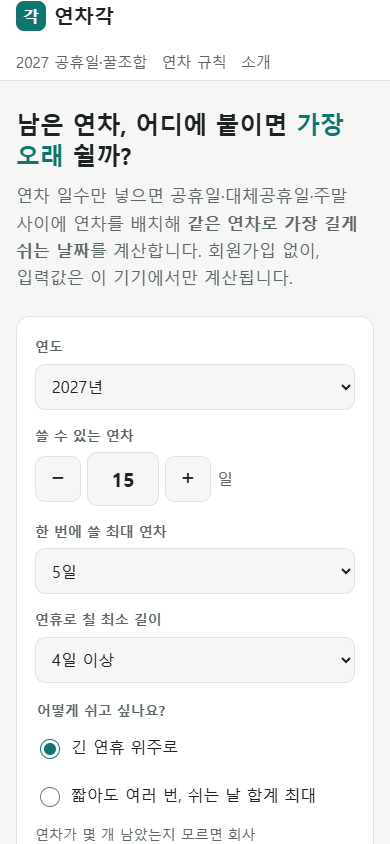
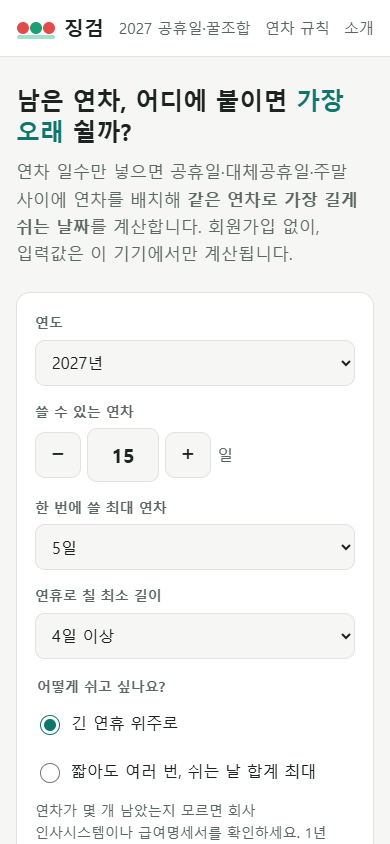
이름 변경: 연차각 → 징검, 징검다리 로고·아이콘·공유 이미지

diff --git a/guide/index.html b/guide/index.html
@@ -3,11 +3,11 @@
 <head>
 <meta charset="utf-8">
 <meta name="viewport" content="width=device-width, initial-scale=1">
-<title>연차·공휴일·대체공휴일 규칙 정리 (5인 미만, 노동절) | 연차각</title>
+<title>연차·공휴일·대체공휴일 규칙 정리 (5인 미만, 노동절) | 징검</title>
 <meta name="description" content="연차 15일 발생 기준, 5인 미만 사업장의 공휴일, 대체공휴일 기준, 노동절·제헌절 공휴일 지정까지 연차 계획 전에 알아둘 규칙을 법령 출처와 함께 정리했습니다.">
 <link rel="canonical" href="https://rolex0331-cloud.github.io/yeonchagak/guide/">
 <meta property="og:type" content="article">
-<meta property="og:title" content="연차·공휴일·대체공휴일 규칙 정리 (5인 미만, 노동절) | 연차각">
+<meta property="og:title" content="연차·공휴일·대체공휴일 규칙 정리 (5인 미만, 노동절) | 징검">
 <meta property="og:description" content="연차 15일 발생 기준, 5인 미만 사업장의 공휴일, 대체공휴일 기준, 노동절·제헌절 공휴일 지정까지 연차 계획 전에 알아둘 규칙을 법령 출처와 함께 정리했습니다.">
 <meta property="og:url" content="https://rolex0331-cloud.github.io/yeonchagak/guide/">
 <meta property="og:image" content="https://rolex0331-cloud.github.io/yeonchagak/assets/og.png">
@@ -17,13 +17,13 @@
 </head>
 <body>
 <header class="site-header"><div class="wrap header-in">
-  <a class="logo" href="../"><span class="logo-mark">각</span>연차각</a>
+  <a class="logo" href="../"><svg class="logo-mark" viewBox="0 0 40 30" aria-hidden="true"><rect x="1" y="22" width="38" height="4" rx="2" fill="#9FE1CB"/><circle cx="7" cy="15" r="6" fill="#E24B4A"/><circle cx="20" cy="15" r="6" fill="#1D9E75"/><circle cx="33" cy="15" r="6" fill="#E24B4A"/></svg>징검</a>
   <nav class="nav"><a href="../2027-holidays/">2027 공휴일·꿀조합</a><a href="../guide/">연차 규칙</a><a href="../about/">소개</a></nav>
 </div></header>
 <main class="wrap doc">
 
 <h1>연차·공휴일 규칙, 계산 전에 알아둘 것</h1>
-<p class="lead">연차각 계산 결과는 회사가 어떤 날을 쉬는지에 따라 달라집니다. 계산기의 체크 항목이 무엇을 뜻하는지 정리했습니다. 법률 상담이 아니며, 최종 기준은 회사 취업규칙과 법령 원문입니다.</p>
+<p class="lead">징검 계산 결과는 회사가 어떤 날을 쉬는지에 따라 달라집니다. 계산기의 체크 항목이 무엇을 뜻하는지 정리했습니다. 법률 상담이 아니며, 최종 기준은 회사 취업규칙과 법령 원문입니다.</p>
 
 <h2>연차는 몇 일인가요?</h2>
 <ul>
@@ -43,7 +43,7 @@
 <p>2026년 4월 국무회의에서 노동절과 제헌절을 관공서 공휴일로 정하는 규정 개정안이 의결됐다고 보도됐습니다. 노동절의 사업장 규모별 적용, 휴일 대체 가능 여부는 자료마다 설명이 다르므로 회사 기준이나 고용노동부 상담(국번 없이 1350)으로 확인하세요. 회사가 노동절에 쉬지 않는다면 계산기의 '노동절에 쉰다'를 끄면 됩니다.</p>
 
 <h2>임시공휴일</h2>
-<p>정부가 임시공휴일을 새로 지정하면 연차각은 공휴일 데이터 확인 후 반영합니다. 반영 전까지는 결과에 포함되지 않으니, 뉴스에서 임시공휴일 소식을 들었다면 계산기 고급 설정의 <b>회사 휴무일</b>에 직접 추가해 계산할 수 있습니다.</p>
+<p>정부가 임시공휴일을 새로 지정하면 징검은 공휴일 데이터 확인 후 반영합니다. 반영 전까지는 결과에 포함되지 않으니, 뉴스에서 임시공휴일 소식을 들었다면 계산기 고급 설정의 <b>회사 휴무일</b>에 직접 추가해 계산할 수 있습니다.</p>
 
 <h2>법령 원문</h2>
 <ul>

diff --git a/2027-holidays/index.html b/2027-holidays/index.html
@@ -3,11 +3,11 @@
 <head>
 <meta charset="utf-8">
 <meta name="viewport" content="width=device-width, initial-scale=1">
-<title>2027년 공휴일·대체공휴일 총정리와 연차 꿀조합 | 연차각</title>
+<title>2027년 공휴일·대체공휴일 총정리와 연차 꿀조합 | 징검</title>
 <meta name="description" content="2027년 공휴일 24일과 대체공휴일 7일 전체 목록, 연차 1일로 6일 쉬는 9/11(토) ~ 9/16(목) 등 연차 효율 순위. 내 연차 일수로 바로 다시 계산할 수 있습니다.">
 <link rel="canonical" href="https://rolex0331-cloud.github.io/yeonchagak/2027-holidays/">
 <meta property="og:type" content="article">
-<meta property="og:title" content="2027년 공휴일·대체공휴일 총정리와 연차 꿀조합 | 연차각">
+<meta property="og:title" content="2027년 공휴일·대체공휴일 총정리와 연차 꿀조합 | 징검">
 <meta property="og:description" content="2027년 공휴일 24일과 대체공휴일 7일 전체 목록, 연차 1일로 6일 쉬는 9/11(토) ~ 9/16(목) 등 연차 효율 순위. 내 연차 일수로 바로 다시 계산할 수 있습니다.">
 <meta property="og:url" content="https://rolex0331-cloud.github.io/yeonchagak/2027-holidays/">
 <meta property="og:image" content="https://rolex0331-cloud.github.io/yeonchagak/assets/og.png">
@@ -17,13 +17,13 @@
 </head>
 <body>
 <header class="site-header"><div class="wrap header-in">
-  <a class="logo" href="../"><span class="logo-mark">각</span>연차각</a>
+  <a class="logo" href="../"><svg class="logo-mark" viewBox="0 0 40 30" aria-hidden="true"><rect x="1" y="22" width="38" height="4" rx="2" fill="#9FE1CB"/><circle cx="7" cy="15" r="6" fill="#E24B4A"/><circle cx="20" cy="15" r="6" fill="#1D9E75"/><circle cx="33" cy="15" r="6" fill="#E24B4A"/></svg>징검</a>
   <nav class="nav"><a href="../2027-holidays/">2027 공휴일·꿀조합</a><a href="../guide/">연차 규칙</a><a href="../about/">소개</a></nav>
 </div></header>
 <main class="wrap doc">
 
 <h1>2027년 공휴일 총정리와 연차 꿀조합</h1>
-<p class="lead">2027년 관공서 공휴일 24일(대체공휴일 7일 포함) 중 평일에 해당하는 날은 15일입니다. 아래 조합은 주 5일(토·일 휴무), 공휴일·대체공휴일·노동절에 모두 쉬는 직장을 기준으로 연차각 계산기가 산출한 결과입니다.</p>
+<p class="lead">2027년 관공서 공휴일 24일(대체공휴일 7일 포함) 중 평일에 해당하는 날은 15일입니다. 아래 조합은 주 5일(토·일 휴무), 공휴일·대체공휴일·노동절에 모두 쉬는 직장을 기준으로 징검 계산기가 산출한 결과입니다.</p>
 <p class="cta"><a class="btn primary" href="../?y=2027&b=15&m=5&l=4">내 남은 연차로 다시 계산하기 →</a></p>
 <p class="note">회사가 공휴일에 쉬지 않거나(5인 미만 사업장 등), 창립기념일·연차 불가 기간이 있다면 결과가 달라집니다. 계산기에서 조건을 바꾸면 그 기준으로 다시 계산됩니다.</p>
 

diff --git a/index.html b/index.html
@@ -3,11 +3,11 @@
 <head>
 <meta charset="utf-8">
 <meta name="viewport" content="width=device-width, initial-scale=1">
-<title>연차각 — 남은 연차로 가장 길게 쉬는 날짜 계산 (2027 연차 꿀조합)</title>
+<title>징검 — 연차 계산기: 남은 연차로 가장 길게 쉬는 날짜 (2027 연차 꿀조합)</title>
 <meta name="description" content="남은 연차 일수를 넣으면 2027년 공휴일·대체공휴일·주말에 연차를 붙여 가장 길게 쉬는 날짜를 계산합니다. 5인 미만·노동절·회사 휴무일 반영, 캘린더(.ics) 저장, 공유 링크 지원.">
 <link rel="canonical" href="https://rolex0331-cloud.github.io/yeonchagak/">
 <meta property="og:type" content="website">
-<meta property="og:title" content="연차각 — 내 연차로 가장 길게 쉬는 날짜">
+<meta property="og:title" content="징검 — 내 연차로 만드는 가장 긴 징검다리 연휴">
 <meta property="og:description" content="남은 연차를 넣으면 공휴일에 붙여 최장 연휴를 찾아 드립니다. 2027년 추석, 연차 2일로 9일 연휴.">
 <meta property="og:url" content="https://rolex0331-cloud.github.io/yeonchagak/">
 <meta property="og:image" content="https://rolex0331-cloud.github.io/yeonchagak/assets/og.png">
@@ -18,14 +18,14 @@
 <link rel="icon" href="assets/icon.svg" type="image/svg+xml">
 <link rel="stylesheet" href="assets/style.css">
 <script type="application/ld+json">
-{"@context":"https://schema.org","@type":"WebApplication","name":"연차각","url":"https://rolex0331-cloud.github.io/yeonchagak/","applicationCategory":"UtilitiesApplication","operatingSystem":"Web","inLanguage":"ko","offers":{"@type":"Offer","price":"0","priceCurrency":"KRW"},"description":"남은 연차로 공휴일·주말을 이어 가장 긴 연휴를 계산하는 무료 도구"}
+{"@context":"https://schema.org","@type":"WebApplication","name":"징검","alternateName":"징검 연차 계산기","url":"https://rolex0331-cloud.github.io/yeonchagak/","applicationCategory":"UtilitiesApplication","operatingSystem":"Web","inLanguage":"ko","offers":{"@type":"Offer","price":"0","priceCurrency":"KRW"},"description":"남은 연차로 공휴일·주말을 이어 가장 긴 연휴를 계산하는 무료 도구"}
 </script>
 </head>
 <body>
 <a class="skip" href="#main">본문 바로가기</a>
 <header class="site-header">
   <div class="wrap header-in">
-    <a class="logo" href="./"><span class="logo-mark">각</span>연차각</a>
+    <a class="logo" href="./"><svg class="logo-mark" viewBox="0 0 40 30" aria-hidden="true"><rect x="1" y="22" width="38" height="4" rx="2" fill="#9FE1CB"/><circle cx="7" cy="15" r="6" fill="#E24B4A"/><circle cx="20" cy="15" r="6" fill="#1D9E75"/><circle cx="33" cy="15" r="6" fill="#E24B4A"/></svg>징검</a>
     <nav class="nav">
       <a href="2027-holidays/">2027 공휴일·꿀조합</a>
       <a href="guide/">연차 규칙</a>

diff --git a/about/index.html b/about/index.html
@@ -3,12 +3,12 @@
 <head>
 <meta charset="utf-8">
 <meta name="viewport" content="width=device-width, initial-scale=1">
-<title>연차각 소개 · 계산 방법 · 개인정보 안내</title>
-<meta name="description" content="연차각의 연차 최적화 계산 방법, 공휴일 데이터 출처, 개인정보 처리와 제휴 고지 안내.">
+<title>징검 소개 · 계산 방법 · 개인정보 안내</title>
+<meta name="description" content="징검의 연차 최적화 계산 방법, 공휴일 데이터 출처, 개인정보 처리와 제휴 고지 안내.">
 <link rel="canonical" href="https://rolex0331-cloud.github.io/yeonchagak/about/">
 <meta property="og:type" content="article">
-<meta property="og:title" content="연차각 소개 · 계산 방법 · 개인정보 안내">
-<meta property="og:description" content="연차각의 연차 최적화 계산 방법, 공휴일 데이터 출처, 개인정보 처리와 제휴 고지 안내.">
+<meta property="og:title" content="징검 소개 · 계산 방법 · 개인정보 안내">
+<meta property="og:description" content="징검의 연차 최적화 계산 방법, 공휴일 데이터 출처, 개인정보 처리와 제휴 고지 안내.">
 <meta property="og:url" content="https://rolex0331-cloud.github.io/yeonchagak/about/">
 <meta property="og:image" content="https://rolex0331-cloud.github.io/yeonchagak/assets/og.png">
 <meta name="theme-color" content="#0f766e">
@@ -17,13 +17,13 @@
 </head>
 <body>
 <header class="site-header"><div class="wrap header-in">
-  <a class="logo" href="../"><span class="logo-mark">각</span>연차각</a>
+  <a class="logo" href="../"><svg class="logo-mark" viewBox="0 0 40 30" aria-hidden="true"><rect x="1" y="22" width="38" height="4" rx="2" fill="#9FE1CB"/><circle cx="7" cy="15" r="6" fill="#E24B4A"/><circle cx="20" cy="15" r="6" fill="#1D9E75"/><circle cx="33" cy="15" r="6" fill="#E24B4A"/></svg>징검</a>
   <nav class="nav"><a href="../2027-holidays/">2027 공휴일·꿀조합</a><a href="../guide/">연차 규칙</a><a href="../about/">소개</a></nav>
 </div></header>
 <main class="wrap doc">
 
-<h1>연차각 소개</h1>
-<p class="lead">연차각은 남은 연차를 공휴일·주말 사이 어디에 넣어야 가장 길게 쉴 수 있는지 계산하는 무료 웹 도구입니다.</p>
+<h1>징검 소개</h1>
+<p class="lead">징검은 남은 연차를 공휴일·주말 사이 어디에 넣어야 가장 길게 쉴 수 있는지 계산하는 무료 웹 도구입니다.</p>
 
 <h2>계산 방법</h2>
 <ul>

diff --git a/scripts/og.html b/scripts/og.html
@@ -3,5 +3,5 @@ body{margin:0;width:1200px;height:630px;background:#0f766e;color:#fff;font-famil
 .b{font-size:40px;font-weight:800;opacity:.9;display:flex;align-items:center;gap:16px}.m{background:#fff;color:#0f766e;border-radius:14px;width:60px;height:60px;display:grid;place-items:center}
 h1{font-size:72px;line-height:1.2;margin:34px 0 26px;font-weight:800}p{font-size:34px;margin:0;opacity:.92}
 .cal{display:flex;gap:10px;margin-top:40px}.cal span{width:64px;height:64px;border-radius:12px;background:rgba(255,255,255,.18);display:grid;place-items:center;font-size:28px;font-weight:800}.cal .h{background:#fde2e1;color:#b42318}.cal .l{background:#fff;color:#0f766e}
-</style></head><body><div class="b"><span class="m">각</span>연차각</div><h1>남은 연차로<br>가장 길게 쉬는 날짜</h1><p>2027 추석, 연차 2일로 9일 연휴 · 무료 계산</p>
+</style></head><body><div class="b"><svg width="84" height="62" viewBox="0 0 40 30"><rect x="1" y="22" width="38" height="4" rx="2" fill="#9FE1CB"/><circle cx="7" cy="15" r="6" fill="#F7C1C1"/><circle cx="20" cy="15" r="6" fill="#ffffff"/><circle cx="33" cy="15" r="6" fill="#F7C1C1"/></svg>징검</div><h1>빨간 날 사이,<br>연차로 징검다리 놓기</h1><p>2027 추석, 연차 2일로 9일 연휴 · 무료 계산</p>
 <div class="cal"><span>11</span><span>12</span><span class="l">13</span><span class="h">14</span><span class="h">15</span><span class="h">16</span><span class="l">17</span><span>18</span><span>19</span></div></body></html>

diff --git a/assets/app.js b/assets/app.js
@@ -321,7 +321,7 @@ async function copyText(text) {
 
 $('dl-ics').addEventListener('click', () => {
   if (!result?.plan.length) return toast('저장할 연휴가 없습니다.');
-  const blob = new Blob([toICS(result.plan, { title: `연차각 ${state.year} 연휴 계획` })], { type: 'text/calendar;charset=utf-8' });
+  const blob = new Blob([toICS(result.plan, { title: `징검 ${state.year} 연휴 계획` })], { type: 'text/calendar;charset=utf-8' });
   const a = document.createElement('a');
   a.href = URL.createObjectURL(blob);
   a.download = `yeonchagak-${state.year}.ics`;
@@ -345,10 +345,10 @@ $('copy-request').addEventListener('click', async () => {
 $('share').addEventListener('click', async () => {
   const url = location.href;
   const best = result?.plan?.slice().sort((a, b) => b.length - a.length)[0];
-  const text = best ? `내 연차 ${result.planLeaveUsed}일로 ${result.planDaysOff}일 쉬는 ${state.year}년 플랜 (최장 ${best.length}일 연휴)` : '연차각 — 내 연차로 가장 길게 쉬는 날짜';
+  const text = best ? `내 연차 ${result.planLeaveUsed}일로 ${result.planDaysOff}일 쉬는 ${state.year}년 플랜 (최장 ${best.length}일 연휴)` : '징검 — 내 연차로 가장 길게 쉬는 날짜';
   if (navigator.share) {
     try {
-      await navigator.share({ title: '연차각', text, url });
+      await navigator.share({ title: '징검', text, url });
       track('share');
       return;
     } catch (e) {

diff --git a/404.html b/404.html
@@ -3,13 +3,13 @@
 <head>
 <meta charset="utf-8">
 <meta name="viewport" content="width=device-width, initial-scale=1">
-<title>페이지를 찾을 수 없습니다 | 연차각</title>
+<title>페이지를 찾을 수 없습니다 | 징검</title>
 <meta name="robots" content="noindex">
 <link rel="icon" href="/yeonchagak/assets/icon.svg" type="image/svg+xml">
 <link rel="stylesheet" href="/yeonchagak/assets/style.css">
 </head>
 <body>
-<header class="site-header"><div class="wrap header-in"><a class="logo" href="/yeonchagak/"><span class="logo-mark">각</span>연차각</a></div></header>
+<header class="site-header"><div class="wrap header-in"><a class="logo" href="/yeonchagak/"><svg class="logo-mark" viewBox="0 0 40 30" aria-hidden="true"><rect x="1" y="22" width="38" height="4" rx="2" fill="#9FE1CB"/><circle cx="7" cy="15" r="6" fill="#E24B4A"/><circle cx="20" cy="15" r="6" fill="#1D9E75"/><circle cx="33" cy="15" r="6" fill="#E24B4A"/></svg>징검</a></div></header>
 <main class="wrap doc">
 <h1>페이지를 찾을 수 없습니다</h1>
 <p>주소가 바뀌었거나 없는 페이지입니다.</p>

diff --git a/assets/style.css b/assets/style.css
@@ -55,7 +55,7 @@ a { color: var(--brand); }
 .site-header { background: var(--card); border-bottom: 1px solid var(--line); }
 .header-in { display: flex; align-items: center; justify-content: space-between; gap: 12px; min-height: 56px; flex-wrap: wrap; }
 .logo { font-weight: 800; font-size: 20px; color: var(--ink); text-decoration: none; display: flex; align-items: center; gap: 8px; }
-.logo-mark { display: inline-grid; place-items: center; width: 30px; height: 30px; border-radius: 8px; background: var(--brand); color: var(--brand-ink); font-size: 16px; }
+.logo-mark { width: 40px; height: 30px; flex: 0 0 auto; }
 .nav { display: flex; gap: 14px; flex-wrap: wrap; font-size: 15px; }
 .nav a { color: var(--muted); text-decoration: none; padding: 6px 0; }
 .nav a:hover { color: var(--brand); }

diff --git a/assets/engine.js b/assets/engine.js
@@ -319,7 +319,7 @@ export function formatRange(w) {
 }
 
 // iCalendar(.ics) 생성. 종일 일정의 DTEND는 다음날(배타적).
-export function toICS(plans, { title = '연차각', stamp = new Date() } = {}) {
+export function toICS(plans, { title = '징검', stamp = new Date() } = {}) {
   const pad = (iso) => iso.replace(/-/g, '');
   const next = (iso) => fromDayNum(toDayNum(iso) + 1);
   const dtstamp = stamp.toISOString().replace(/[-:]/g, '').replace(/\.\d{3}/, '');

diff --git a/assets/config.js b/assets/config.js
@@ -3,7 +3,7 @@
 // 분석 이벤트는 전송하지 않음.
 
 export const SITE = {
-  name: '연차각',
+  name: '징검',
   url: 'https://rolex0331-cloud.github.io/yeonchagak/',
   contact: 'https://github.com/rolex0331-cloud/yeonchagak/issues',
 };

diff --git a/PROJECT_STATE.md b/PROJECT_STATE.md
@@ -1,9 +1,9 @@
-# PROJECT_STATE — 연차각 (마지막 갱신 2026-10-14)
+# PROJECT_STATE — 징검 (구 연차각) (마지막 갱신 2026-10-14)
 
 다음 작업자는 처음부터 조사하지 말고 이 문서와 docs/에서 이어간다.
 
 ## 결정 사항
-- 주제: 한국 공휴일 기준 **연차 최적화 플래너 '연차각'** (후보 10개 중 선정, 근거 docs/market-research.md)
+- 주제: 한국 공휴일 기준 **연차 최적화 플래너 '징검'** (2026-10-14 연차각에서 이름 변경, 주소 /yeonchagak/는 검색 등록 유지를 위해 그대로) (후보 10개 중 선정, 근거 docs/market-research.md)
 - 핵심 고객: 내년 연차 계획을 세우는 한국 직장인 (10월~1월 수요)
 - 첫 화면 한 문장: "남은 연차, 어디에 붙이면 가장 오래 쉴까?"
 - 주 수익모델: 트립닷컴 여행 제휴 1개 (연휴 날짜 → 그 날짜 항공권·숙소 검색). 광고는 하지 않음

diff --git a/README.md b/README.md
@@ -1,4 +1,4 @@
-# 연차각
+# 징검 (구 연차각)
 
 남은 연차를 공휴일·대체공휴일·주말 사이 어디에 넣어야 가장 길게 쉬는지 계산하는 무료 정적 웹 도구.
 
